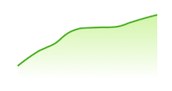
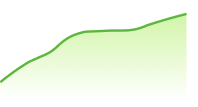
Update CloudNetworkPanel and DeviceManagementDashboard components with new MiniChart implementation and layout adjustments. Replace image-based charts with SVG-based charts for better performance and flexibility. Modify styling for improved alignment and spacing in the Device Management Dashboard.

Changed region(s): [[0.0, 0.1099, 0.9593, 0.7912]]

diff --git a/src/components/CloudNetworkPanel.tsx b/src/components/CloudNetworkPanel.tsx
@@ -6,8 +6,6 @@ import { MdUpload } from "react-icons/md";
 import { FcDepartment } from "react-icons/fc";
 import { GrStorage } from "react-icons/gr";
 
-import PositiveGraph from '../assets/positive-graph.png'
-import NegativeGraph from '../assets/negative-graph.png'
 import StorageImg from '../assets/storage-img.png'
 import { FiZap } from "react-icons/fi";
 
@@ -82,7 +80,7 @@ const MetricsGrid = styled.div`
 const MetricCard = styled.article`
   background: #ffffff;
   border-radius: 8px;
-  padding: 16px 18px;
+  padding: 15px 10px;
   display: flex;
   flex-direction: column;
   gap: 8px;
@@ -90,23 +88,25 @@ const MetricCard = styled.article`
 
 const MetricTitleRow = styled.div`
   display: flex;
-  align-items: center;
+  align-items: flex-end;
   justify-content: space-between;
 `
 const MetricTitleLeft = styled.div`
   display: flex;
   align-items: center;
   gap: 8px;
+   margin-bottom: -20px;
 `
 
 const MetricLabel = styled.span`
   font-size: 16px;
   font-weight: 500;
   color: #4A4A4A;
+ 
 `
 
 const MetricIcon = styled.div`
- display: flex;
+  display: flex;
   align-items: center;
   justify-content: center;
   width: 30px;
@@ -154,10 +154,93 @@ const MetricFooter = styled.span`
   
 `
 
-const MiniChart = styled.svg`
-  width: 90px;
-  height: 40px;
+const ChartSvg = styled.svg`
+  width: 150px;
+  height: 100px;
+  margin-bottom: -25px;
 `
+
+const MiniChart = ({ positive }: { positive: boolean }) => {
+  if (positive) {
+    return (
+      <ChartSvg viewBox="0 0 100 50" preserveAspectRatio="none">
+        <defs>
+          <linearGradient id="positiveGradient" x1="0" y1="0" x2="0" y2="1">
+            <stop offset="0%" stopColor="#22c55e" stopOpacity="0.35" />
+            <stop offset="100%" stopColor="#22c55e" stopOpacity="0.05" />
+          </linearGradient>
+        </defs>
+
+        {/* area fill */}
+        <path
+          d="
+            M0,40
+            C15,34 25,30 35,26
+            C45,22 60,18 70,14
+            C80,10 90,8 100,6
+            L100,50
+            L0,50
+            Z
+          "
+          fill="url(#positiveGradient)"
+        />
+
+        {/* line */}
+        <path
+          d="
+            M0,40
+            C15,34 25,30 35,26
+            C45,22 60,18 70,14
+            C80,10 90,8 100,6
+          "
+          fill="none"
+          stroke="#22c55e"
+          strokeWidth="2"
+          strokeLinecap="round"
+        />
+      </ChartSvg>
+    )
+  }
+
+  return (
+    <ChartSvg viewBox="0 0 100 50" preserveAspectRatio="none">
+      <defs>
+        <linearGradient id="emailGradient" x1="0" y1="0" x2="0" y2="1">
+          <stop offset="0%" stopColor="#ef4444" stopOpacity="0.35" />
+          <stop offset="100%" stopColor="#ef4444" stopOpacity="0.05" />
+        </linearGradient>
+      </defs>
+
+      {/* area fill */}
+      <path
+        d="
+          M0,10
+          C15,12 20,18 30,20
+          C40,22 50,18 60,25
+          C70,32 80,35 100,45
+          L100,50
+          L0,50
+          Z
+        "
+        fill="url(#emailGradient)"
+      />
+
+      {/* line */}
+      <path
+        d="
+          M0,10
+          C15,12 20,18 30,20
+          C40,22 50,18 60,25
+          C70,32 80,35 100,45
+        "
+        fill="none"
+        stroke="#ef4444"
+        strokeWidth="2"
+        strokeLinecap="round"
+      />
+    </ChartSvg>
+  )
+}
 
 function MetricCardView({
   title,
@@ -184,37 +267,7 @@ function MetricCardView({
             {positive ? '↑' : '↓'} {change}
           </MetricChange>
         </MetricValue>
-        <MiniChart viewBox="0 0 90 40" preserveAspectRatio="none">
-          <defs>
-            <linearGradient
-              id={`grad-${title}`}
-              x1="0"
-              y1="0"
-              x2="0"
-              y2="1"
-            >
-              <stop
-                offset="0%"
-                stopColor={positive ? '#22c55e' : '#f97373'}
-                stopOpacity="0.7"
-              />
-              <stop
-                offset="100%"
-                stopColor={positive ? '#bbf7d0' : '#fee2e2'}
-                stopOpacity="0"
-              />
-            </linearGradient>
-          </defs>
-          <MiniChart viewBox="0 0 90 40" preserveAspectRatio="none">
-            <image
-              href={positive ? PositiveGraph : NegativeGraph}
-              x="0"
-              y="0"
-              width="100%"
-              height="100%"
-            />
-          </MiniChart>
-        </MiniChart>
+        <MiniChart positive={positive} />
       </MetricMainRow>
 
       <MetricFooter>Compared to last week</MetricFooter>

diff --git a/src/components/DeviceManagementDashboard.tsx b/src/components/DeviceManagementDashboard.tsx
@@ -87,6 +87,13 @@ const Card = styled.div`
   box-shadow: 0 2px 8px rgba(0, 0, 0, 0.04);
 `;
 
+const Group = styled.div`
+ display:flex;
+ align-items:flex-end;
+ justify-content:space-between;
+`;
+
+
 const LargeCard = styled(Card)`
   grid-column: span 1;
 `;
@@ -413,6 +420,8 @@ type StatProps = {
 function StatCard({ title, value, change, positive, icon }: StatProps) {
     return (
         <Card>
+            <Group>
+            <div>
             <CardHeader>
                 <IconBox>{icon}</IconBox>
                 <CardTitle>{title}</CardTitle>
@@ -425,6 +434,9 @@ function StatCard({ title, value, change, positive, icon }: StatProps) {
 
             <SubText>Compared to last week</SubText>
 
+            </div>
+            <div>gshgsgsgsghsg</div>
+            </Group>
             <Divider />
 
             <BottomStats>
